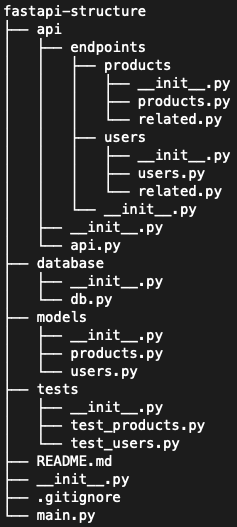
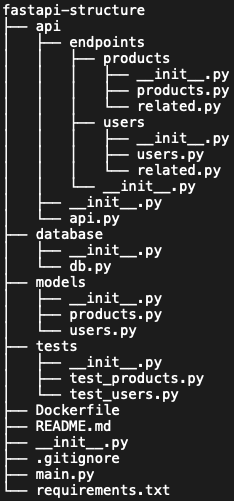
add dockerfile and config

Changed region(s): [[0.0, 0.0, 0.9872, 1.0]]

diff --git a/main.py b/main.py
@@ -2,13 +2,12 @@ from fastapi import FastAPI
 from fastapi.middleware.cors import CORSMiddleware
 
 from api.api import api_router
+import config
 
-app = FastAPI(title="FastAPI Structure", description="FastAPI公版架構")
-
-origins = ["http://0.0.0.0:3333"]
+app = FastAPI(title=config.APP_TITLE, description=config.APP_DESCRIPION)
 
 app.add_middleware(CORSMiddleware,
-                   allow_origins=origins,
+                   allow_origins=config.ALLOW_ORIGINS,
                    allow_credentials=True,
                    allow_methods=["*"],
                    allow_headers=["*"])

diff --git a/api/endpoints/users/users.py b/api/endpoints/users/users.py
@@ -1,12 +1,14 @@
 from fastapi import APIRouter
 
 from models.users import userProfile, userProfileResponse
+import config
 
 router = APIRouter()
 
 @router.get("/{user_id}")
 async def readUser(user_id: str):
-    return {"user_id": user_id}
+    test_env_var = config.TEST
+    return {"user_id": user_id, "test_env_var": test_env_var}
 
 @router.post("/profile", response_model=userProfileResponse)
 async def readUserProfile(model: userProfile):

diff --git a/config.py b/config.py
@@ -1,0 +1,6 @@
+import os
+
+APP_TITLE="FastAPI Structure"
+APP_DESCRIPION="FastAPI公版架構"
+ALLOW_ORIGINS=os.getenv("ALLOW_ORIGINS", "http://0.0.0.0:3333")
+TEST=os.getenv("TEST", "NO MONEY")

diff --git a/README.md b/README.md
@@ -16,9 +16,17 @@
 * tests: 存放所有測試檔案
     * test_products.py: 測試products.py
     * test_users.py: 測試users.py
+* config.py: 主要為變數設定(如抓取環境變數等)
 * main.py: 整個project的設定(如CORS等)
 
+## Run
+```
+docker build -t fastapi_structure .
+docker run -d --name fastapi_structure -p 9527:80 fastapi_structure
+```
+
 ## Interactive API docs
+[http://0.0.0.0:9527/docs](http://0.0.0.0:9527/docs)
 ![api_docs](images/api_docs.png)
 
 ## Reference
